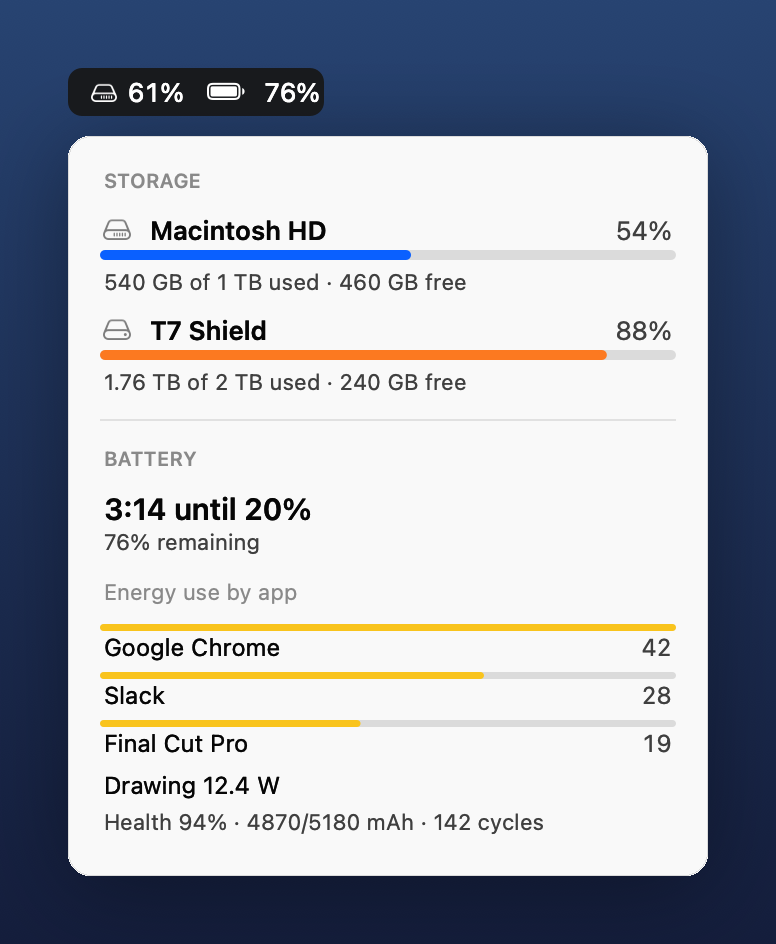
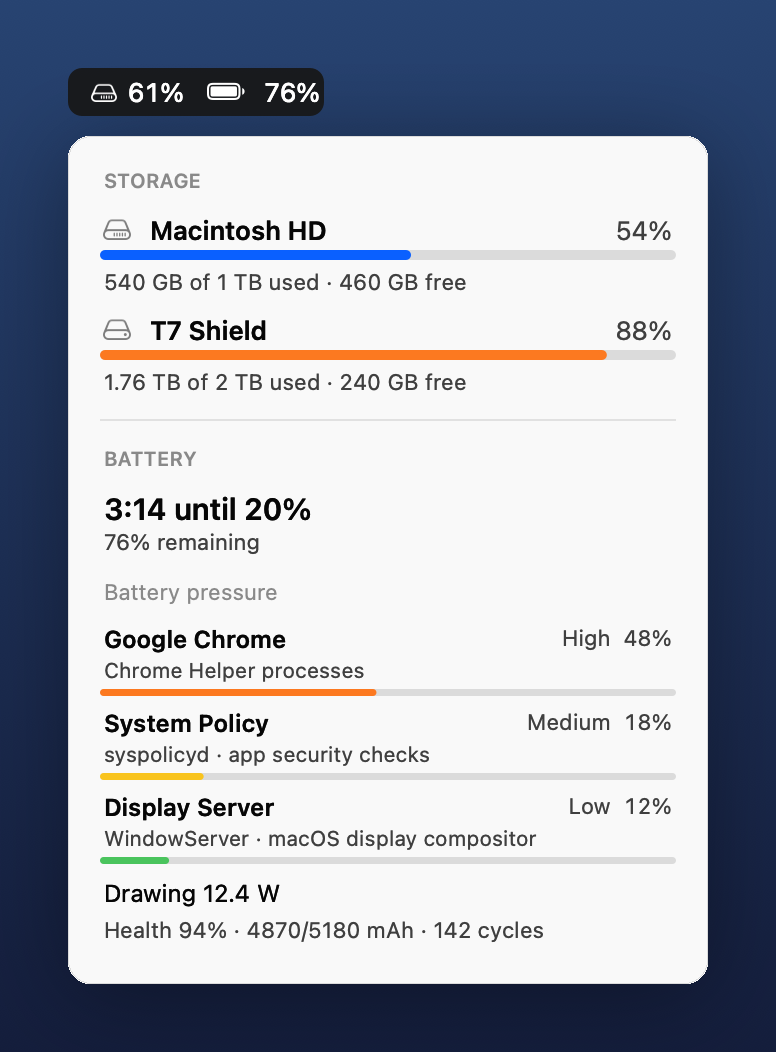
Clarify battery pressure readout

Changed region(s): [[0.0928, 0.0614, 0.9278, 0.8909], [0.0928, 0.9216, 0.8969, 0.9523], [0.7113, 0.5837, 0.866, 0.6144]]

diff --git a/Sources/main.m b/Sources/main.m
@@ -149,6 +149,72 @@ static NSArray<NSDictionary *> *SampleHogs(int topN) {
     return ParseHogs(out ?: @"", topN, ^NSString *(pid_t pid){ return AppGroupForPid(pid); });
 }
 
+static NSArray<NSString *> *CommandsForHog(NSDictionary *h) {
+    id commands = h[@"commands"];
+    return [commands isKindOfClass:NSArray.class] ? commands : @[];
+}
+
+static NSString *CommandSummary(NSArray<NSString *> *commands) {
+    if (!commands.count) return @"process";
+    if (commands.count == 1) return [NSString stringWithFormat:@"%@ process", commands.firstObject];
+    if (commands.count == 2) return [NSString stringWithFormat:@"%@ + %@", commands[0], commands[1]];
+    return [NSString stringWithFormat:@"%@ + %@ + %lu more",
+            commands[0], commands[1], (unsigned long)commands.count - 2];
+}
+
+static NSDictionary *KnownProcessInfo(NSString *name) {
+    static NSDictionary *known;
+    static dispatch_once_t once;
+    dispatch_once(&once, ^{
+        known = @{
+            @"WindowServer": @{@"title": @"Display Server", @"detail": @"WindowServer · macOS display compositor"},
+            @"syspolicyd": @{@"title": @"System Policy", @"detail": @"syspolicyd · app security checks"},
+            @"trustd": @{@"title": @"Certificate Trust", @"detail": @"trustd · certificate checks"},
+            @"securityd": @{@"title": @"Security Service", @"detail": @"securityd · keychain and authorization"},
+            @"kernel_task": @{@"title": @"Kernel", @"detail": @"kernel_task · macOS core system work"},
+            @"launchservicesd": @{@"title": @"Launch Services", @"detail": @"launchservicesd · app launch database"},
+            @"cfprefsd": @{@"title": @"Preferences Service", @"detail": @"cfprefsd · app settings cache"},
+            @"distnoted": @{@"title": @"Notifications", @"detail": @"distnoted · system notification routing"},
+            @"logd": @{@"title": @"Logging", @"detail": @"logd · system log service"},
+            @"runningboardd": @{@"title": @"App Lifecycle", @"detail": @"runningboardd · app state management"},
+            @"sysmond": @{@"title": @"System Monitor", @"detail": @"sysmond · system activity tracking"},
+            @"mds": @{@"title": @"Spotlight", @"detail": @"mds · search indexing"},
+            @"mds_stores": @{@"title": @"Spotlight", @"detail": @"mds_stores · search index database"},
+            @"mdworker_shared": @{@"title": @"Spotlight Worker", @"detail": @"mdworker_shared · file indexing"},
+            @"backupd": @{@"title": @"Time Machine", @"detail": @"backupd · backup service"},
+            @"cloudd": @{@"title": @"iCloud", @"detail": @"cloudd · iCloud sync"},
+            @"nsurlsessiond": @{@"title": @"Background Transfers", @"detail": @"nsurlsessiond · downloads and uploads"},
+            @"locationd": @{@"title": @"Location Services", @"detail": @"locationd · location access"},
+            @"bluetoothd": @{@"title": @"Bluetooth", @"detail": @"bluetoothd · Bluetooth service"},
+            @"airportd": @{@"title": @"Wi-Fi", @"detail": @"airportd · wireless networking"},
+            @"mediaanalysisd": @{@"title": @"Media Analysis", @"detail": @"mediaanalysisd · photo and media analysis"}
+        };
+    });
+    return known[name];
+}
+
+static NSDictionary *BatteryPressureInfo(NSDictionary *h) {
+    NSString *name = [h[@"name"] isKindOfClass:NSString.class] ? h[@"name"] : @"Process";
+    NSDictionary *known = KnownProcessInfo(name);
+    if (known) return known;
+
+    NSArray<NSString *> *commands = CommandsForHog(h);
+    NSString *detail = CommandSummary(commands);
+    if (commands.count == 1 && [commands.firstObject isEqualToString:name])
+        detail = [name hasSuffix:@"d"] ? @"background service" : @"process";
+    return @{@"title": name, @"detail": detail};
+}
+
+static NSString *PressureLevel(double share) {
+    return share >= 0.35 ? @"High" : share >= 0.15 ? @"Medium" : @"Low";
+}
+
+static NSColor *PressureColor(double share) {
+    if (share >= 0.35) return NSColor.systemOrangeColor;
+    if (share >= 0.15) return [NSColor.systemYellowColor colorWithAlphaComponent:0.9];
+    return [NSColor.systemGreenColor colorWithAlphaComponent:0.85];
+}
+
 #pragma mark - colors / small views
 
 static NSColor *DiskColor(double frac) {
@@ -409,8 +475,8 @@ static void PSChanged(void *ctx) { [(__bridge Controller *)ctx refresh]; }
         [root addSubview:hl]; y += 44;
     }
 
-    // energy hogs
-    [root addSubview:[self text:@"Energy use by app" font:[NSFont systemFontOfSize:11]
+    // battery pressure
+    [root addSubview:[self text:@"Battery pressure" font:[NSFont systemFontOfSize:11]
                           color:NSColor.tertiaryLabelColor at:NSMakeRect(kPad, y, kW-2*kPad, 14) align:NSTextAlignmentLeft]];
     y += 20;
     if (_hogs.count == 0) {
@@ -418,20 +484,27 @@ static void PSChanged(void *ctx) { [(__bridge Controller *)ctx refresh]; }
         [root addSubview:[self text:status font:[NSFont systemFontOfSize:12] color:NSColor.secondaryLabelColor
                                at:NSMakeRect(kPad, y, kW-2*kPad, 16) align:NSTextAlignmentLeft]]; y += 22;
     } else {
-        double mx = [_hogs.firstObject[@"impact"] doubleValue];
+        double total = [_hogs.firstObject[@"totalImpact"] doubleValue];
+        if (total <= 0) for (NSDictionary *h in _hogs) total += [h[@"impact"] doubleValue];
         for (NSDictionary *h in _hogs) {
-            NSView *row = [[NSView alloc] initWithFrame:NSMakeRect(0, y, kW, 24)];
+            double impact = [h[@"impact"] doubleValue];
+            double share = total > 0 ? impact / total : 0;
+            NSDictionary *info = BatteryPressureInfo(h);
+            NSString *right = [NSString stringWithFormat:@"%@  %d%%", PressureLevel(share), (int)lround(share * 100)];
+            NSView *row = [[NSView alloc] initWithFrame:NSMakeRect(0, y, kW, 42)];
             CGFloat inner = kW - 2*kPad;
-            [row addSubview:[self text:h[@"name"] font:[NSFont systemFontOfSize:12] color:nil
-                                  at:NSMakeRect(kPad, 7, inner-50, 15) align:NSTextAlignmentLeft]];
-            [row addSubview:[self text:[NSString stringWithFormat:@"%.0f", [h[@"impact"] doubleValue]]
-                                  font:[NSFont monospacedDigitSystemFontOfSize:12 weight:NSFontWeightRegular]
-                                 color:NSColor.secondaryLabelColor at:NSMakeRect(kW-kPad-44, 7, 44, 15) align:NSTextAlignmentRight]];
+            [row addSubview:[self text:info[@"title"] font:[NSFont systemFontOfSize:12 weight:NSFontWeightSemibold] color:nil
+                                  at:NSMakeRect(kPad, 24, inner-84, 15) align:NSTextAlignmentLeft]];
+            [row addSubview:[self text:right
+                                  font:[NSFont monospacedDigitSystemFontOfSize:11 weight:NSFontWeightRegular]
+                                 color:NSColor.secondaryLabelColor at:NSMakeRect(kW-kPad-82, 24, 82, 15) align:NSTextAlignmentRight]];
+            [row addSubview:[self text:info[@"detail"] font:[NSFont systemFontOfSize:10.5] color:NSColor.secondaryLabelColor
+                                  at:NSMakeRect(kPad, 9, inner, 13) align:NSTextAlignmentLeft]];
             Gauge *g = [[Gauge alloc] initWithFrame:NSMakeRect(kPad, 3, inner, 3.5)];
-            g.fraction = mx > 0 ? [h[@"impact"] doubleValue]/mx : 0;
-            g.color = [NSColor.systemYellowColor colorWithAlphaComponent:0.9];
+            g.fraction = share;
+            g.color = PressureColor(share);
             [row addSubview:g];
-            [root addSubview:row]; y += 24;
+            [root addSubview:row]; y += 42;
         }
     }
 
@@ -497,10 +570,17 @@ static void Dump(void) {
         if (b.designCap_mAh > 0)
             printf("      health %d%% · %ld cycles\n", (int)lround(100.0*b.rawMax_mAh/b.designCap_mAh), b.cycleCount);
     }
-    printf("energy hogs:\n");
+    printf("battery pressure:\n");
     NSArray *hogs = SampleHogs(5);
     if (!hogs.count) printf("  unavailable\n");
-    for (NSDictionary *h in hogs) printf("  %6.0f  %s\n", [h[@"impact"] doubleValue], [h[@"name"] UTF8String]);
+    double total = [hogs.firstObject[@"totalImpact"] doubleValue];
+    if (total <= 0) for (NSDictionary *h in hogs) total += [h[@"impact"] doubleValue];
+    for (NSDictionary *h in hogs) {
+        double share = total > 0 ? [h[@"impact"] doubleValue] / total : 0;
+        NSDictionary *info = BatteryPressureInfo(h);
+        printf("  %3d%%  %-18s %s\n", (int)lround(share * 100),
+               [info[@"title"] UTF8String], [info[@"detail"] UTF8String]);
+    }
 }
 
 int main(int argc, const char **argv) {

diff --git a/tools/mockup.m b/tools/mockup.m
@@ -37,6 +37,7 @@ static const CGFloat kW = 320, kPad = 16;
 @end
 
 static NSColor *Disk(double f){ return f>=0.95?NSColor.systemRedColor:f>=0.85?NSColor.systemOrangeColor:NSColor.controlAccentColor; }
+static NSColor *Pressure(double f){ return f>=0.35?NSColor.systemOrangeColor:f>=0.15?[NSColor.systemYellowColor colorWithAlphaComponent:0.9]:[NSColor.systemGreenColor colorWithAlphaComponent:0.85]; }
 static NSTextField *L(NSString *s, NSFont *f, NSColor *c, NSRect fr, NSTextAlignment a){
     NSTextField *t=[NSTextField labelWithString:s]; t.font=f; if(c)t.textColor=c; t.alignment=a; t.frame=fr;
     t.lineBreakMode=NSLineBreakByTruncatingTail; return t;
@@ -86,18 +87,27 @@ static NSTextField *L(NSString *s, NSFont *f, NSColor *c, NSRect fr, NSTextAlign
     [card addSubview:L(@"76% remaining", [NSFont systemFontOfSize:11], NSColor.secondaryLabelColor,
                        NSMakeRect(kPad, y+19, inner, 14), NSTextAlignmentLeft)];
     y += 44;
-    [card addSubview:L(@"Energy use by app", [NSFont systemFontOfSize:11], NSColor.tertiaryLabelColor,
+    [card addSubview:L(@"Battery pressure", [NSFont systemFontOfSize:11], NSColor.tertiaryLabelColor,
                        NSMakeRect(kPad, y, inner, 14), NSTextAlignmentLeft)]; y += 20;
-    NSArray *hogs = @[@[@"Google Chrome",@42.0], @[@"Slack",@28.0], @[@"Final Cut Pro",@19.0]];
-    double mx = 42;
-    for (NSArray *h in hogs) {
-        double v = [h[1] doubleValue];
-        [card addSubview:L(h[0], [NSFont systemFontOfSize:12], nil, NSMakeRect(kPad, y+7, inner-50, 15), NSTextAlignmentLeft)];
-        [card addSubview:L([NSString stringWithFormat:@"%.0f",v], [NSFont monospacedDigitSystemFontOfSize:12 weight:NSFontWeightRegular],
-                           NSColor.secondaryLabelColor, NSMakeRect(kW-kPad-44, y+7, 44, 15), NSTextAlignmentRight)];
-        Gauge *g=[[Gauge alloc] initWithFrame:NSMakeRect(kPad, y+3, inner, 3.5)]; g.fraction=v/mx;
-        g.color=[NSColor.systemYellowColor colorWithAlphaComponent:0.9]; [card addSubview:g];
-        y += 24;
+    NSArray *pressure = @[
+        @[@"Google Chrome", @"Chrome Helper processes", @0.48, @"High"],
+        @[@"System Policy", @"syspolicyd · app security checks", @0.18, @"Medium"],
+        @[@"Display Server", @"WindowServer · macOS display compositor", @0.12, @"Low"]
+    ];
+    for (NSArray *h in pressure) {
+        double share = [h[2] doubleValue];
+        NSView *row = [[NSView alloc] initWithFrame:NSMakeRect(0, y, kW, 42)];
+        [row addSubview:L(h[0], [NSFont systemFontOfSize:12 weight:NSFontWeightSemibold], nil,
+                          NSMakeRect(kPad, 24, inner-84, 15), NSTextAlignmentLeft)];
+        [row addSubview:L([NSString stringWithFormat:@"%@  %.0f%%", h[3], share*100],
+                          [NSFont monospacedDigitSystemFontOfSize:11 weight:NSFontWeightRegular],
+                          NSColor.secondaryLabelColor, NSMakeRect(kW-kPad-82, 24, 82, 15), NSTextAlignmentRight)];
+        [row addSubview:L(h[1], [NSFont systemFontOfSize:10.5], NSColor.secondaryLabelColor,
+                          NSMakeRect(kPad, 9, inner, 13), NSTextAlignmentLeft)];
+        Gauge *g=[[Gauge alloc] initWithFrame:NSMakeRect(kPad, 3, inner, 3.5)]; g.fraction=share;
+        g.color=Pressure(share); [row addSubview:g];
+        [card addSubview:row];
+        y += 42;
     }
     y += 4;
     [card addSubview:L(@"Drawing 12.4 W", [NSFont systemFontOfSize:12], nil, NSMakeRect(kPad, y, inner, 16), NSTextAlignmentLeft)]; y+=19;

diff --git a/Sources/pure.m b/Sources/pure.m
@@ -20,8 +20,15 @@ NSString *FmtDuration(int minutes) {
     return [NSString stringWithFormat:@"%d:%02d", minutes / 60, minutes % 60];
 }
 
+static NSString *CommandFromColumns(NSArray<NSString *> *cols) {
+    if (cols.count < 3) return @"";
+    NSRange r = NSMakeRange(1, cols.count - 2);
+    return [[cols subarrayWithRange:r] componentsJoinedByString:@" "];
+}
+
 NSArray<NSDictionary *> *ParseHogs(NSString *topOutput, int topN,
                                    NSString *(^groupForPid)(pid_t)) {
+    if (topN <= 0) return @[];
     NSArray<NSString *> *lines = [topOutput componentsSeparatedByString:@"\n"];
     NSInteger headerCount = 0, start = -1;
     for (NSInteger i = 0; i < lines.count; i++) {
@@ -33,6 +40,7 @@ NSArray<NSDictionary *> *ParseHogs(NSString *topOutput, int topN,
     if (start < 0) return @[];
 
     NSMutableDictionary<NSString *, NSNumber *> *sum = [NSMutableDictionary dictionary];
+    NSMutableDictionary<NSString *, NSMutableSet<NSString *> *> *commands = [NSMutableDictionary dictionary];
     for (NSInteger i = start; i < lines.count; i++) {
         NSMutableArray<NSString *> *cols = [NSMutableArray array];
         for (NSString *s in [lines[i] componentsSeparatedByCharactersInSet:
@@ -43,17 +51,27 @@ NSArray<NSDictionary *> *ParseHogs(NSString *topOutput, int topN,
         pid_t pid = (pid_t)cols.firstObject.intValue;
         if (pid <= 0) continue;
         double power = cols.lastObject.doubleValue;
+        NSString *command = CommandFromColumns(cols);
         NSString *group = groupForPid(pid);
-        if (!group) group = cols[1];
+        if (!group.length) group = command;
+        if (!group.length) continue;
         sum[group] = @(sum[group].doubleValue + power);
+        if (command.length) {
+            if (!commands[group]) commands[group] = [NSMutableSet set];
+            [commands[group] addObject:command];
+        }
     }
     NSArray<NSString *> *keys = [sum keysSortedByValueUsingComparator:
         ^NSComparisonResult(NSNumber *a, NSNumber *b) { return [b compare:a]; }];
+    double totalImpact = 0;
+    for (NSString *k in keys) if (sum[k].doubleValue > 0) totalImpact += sum[k].doubleValue;
     NSMutableArray<NSDictionary *> *out = [NSMutableArray array];
     for (NSString *k in keys) {
         if (out.count >= topN) break;
         if (sum[k].doubleValue <= 0) continue;
-        [out addObject:@{@"name": k, @"impact": sum[k]}];
+        NSArray *commandList = [[commands[k] allObjects] sortedArrayUsingSelector:@selector(localizedStandardCompare:)];
+        [out addObject:@{@"name": k, @"impact": sum[k], @"totalImpact": @(totalImpact),
+                         @"commands": commandList ? commandList : @[]}];
     }
     return out;
 }

diff --git a/Tests/test_pure.m b/Tests/test_pure.m
@@ -31,7 +31,10 @@ int main(void) {
         check(hogs.count == 3, @"3 groups after rollup");
         check([hogs[0][@"name"] isEqual:@"Google Chrome"], @"Chrome top after rollup (20+15=35)");
         check([hogs[0][@"impact"] doubleValue] == 35.0, @"Chrome helpers summed to 35");
+        check(fabs([hogs[0][@"totalImpact"] doubleValue] - 65.7) < 0.001, @"total impact preserves full sample");
+        check([hogs[0][@"commands"] containsObject:@"Chrome Helper"], @"Chrome row preserves raw helper command");
         check([hogs[1][@"name"] isEqual:@"WindowServer"], @"WindowServer second (26.7)");
+        check([hogs[1][@"commands"] containsObject:@"WindowServer"], @"WindowServer row preserves raw command");
         check([hogs[2][@"name"] isEqual:@"iTerm2"], @"iTerm2 third (4.0)");
         double ws = 0; for (NSDictionary *h in hogs) if ([h[@"name"] isEqual:@"WindowServer"]) ws = [h[@"impact"] doubleValue];
         check(ws == 26.7, @"WindowServer = 26.7 (second frame only)");

diff --git a/Sources/pure.h b/Sources/pure.h
@@ -25,7 +25,8 @@ int MinutesTo20(BatteryState b, double avgAmp_mA);
 NSString *FmtDuration(int minutes);
 
 // Parse `top -l 2 …` output: keep the SECOND "PID … POWER" frame, sum each process's
-// energy impact into a group (groupForPid(pid) ?: the command token), return the top-N
-// groups as @[@{@"name":…, @"impact":@(…)}] sorted by impact descending.
+// energy impact into a group (groupForPid(pid) ?: the command token), and preserve the
+// raw command names under @"commands". Returns the top-N groups sorted by impact:
+// @[@{@"name":…, @"impact":@(…), @"totalImpact":@(…), @"commands":@[…]}].
 NSArray<NSDictionary *> *ParseHogs(NSString *topOutput, int topN,
                                    NSString *(^groupForPid)(pid_t));

diff --git a/README.md b/README.md
@@ -14,8 +14,8 @@
 
 Glancebar shows your disk usage and battery charge in a single compact menu bar item
 (`💾 61%  🔋 76%`). Click it for one native popover with two sections: **Storage**
-(every mounted volume with a usage gauge) and **Battery** (time until 20%, the top
-energy-using apps, current draw, and health). One item, one slot, **no dependencies, no
+(every mounted volume with a usage gauge) and **Battery** (time until 20%, battery
+pressure by app/process, current draw, and health). One item, one slot, **no dependencies, no
 background services, and no admin rights**.
 
 It merges two earlier single-purpose apps — [Diskbar](https://github.com/todd866/diskbar)
@@ -26,8 +26,9 @@ and Voltbar (battery) — into one, so they stop competing for space next to the
 - **Both at a glance** — disk % and battery % share one tidy menu bar item.
 - **Storage** — every volume (internal + external/NTFS) with Finder-accurate free space
   (purgeable counts as free); gauges turn orange past 85%, red past 95%.
-- **Battery** — "3:14 until 20%" (not a bare percentage), plus energy hogs grouped by app
-  the way Activity Monitor does, live draw in watts, and battery health / cycle count.
+- **Battery** — "3:14 until 20%" (not a bare percentage), plus battery pressure grouped by
+  app/process with raw process names and plain-English context, live draw in watts, and
+  battery health / cycle count.
 - **Self-contained** — one binary, native popover UI, no runtime, no installer, no `sudo`.
 
 ## Build & Install
@@ -43,7 +44,7 @@ Start at login: **System Settings → General → Login Items → +** and add Gl
 Requires the Xcode Command Line Tools (`xcode-select --install`).
 
 Headless readout: `Glancebar.app/Contents/MacOS/Glancebar --dump` prints disk, battery,
-and energy hogs to the terminal.
+and battery pressure to the terminal.
 
 ## How It Works
 
@@ -54,18 +55,19 @@ and energy hogs to the terminal.
   instantly on plug/unplug via an `IOPSNotification`, otherwise every 15s.
 - **Time until 20%** — macOS's smoothed minutes-to-empty scaled by `(charge − 20)/charge`,
   with an amperage-based fallback.
-- **Energy hogs** — `top -l 2 -stats pid,command,power`, reading the second sample, with
-  each process grouped under the **outermost `.app` bundle in its executable path** so
-  helpers roll up under their parent app.
+- **Battery pressure** — `top -l 2 -stats pid,command,power`, reading the second sample,
+  grouped under the **outermost `.app` bundle in each executable path** where possible so
+  helpers roll up under their parent app. Rows show the share of sampled app/process
+  pressure, while preserving raw process names such as `syspolicyd`.
 
-The time estimator and energy-grouping are pure functions with unit tests (`./tests.sh`);
+The time estimator and battery-pressure grouping are pure functions with unit tests (`./tests.sh`);
 the IORegistry, disk, and `top` plumbing live in the app shell.
 
 ## Repository
 
 ```
 glancebar/
-├── Sources/pure.{h,m}   # pure, testable logic: time-to-20% + energy grouping
+├── Sources/pure.{h,m}   # pure, testable logic: time-to-20% + battery-pressure grouping
 ├── Sources/main.m       # app shell: disk + battery readers, top sampling, popover UI
 ├── Tests/test_pure.m    # unit tests for the pure functions
 ├── tools/mockup.m       # renders docs/screenshot.png
